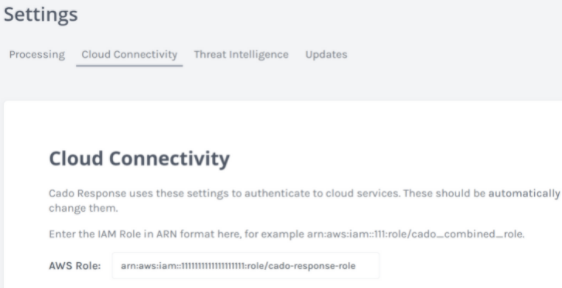
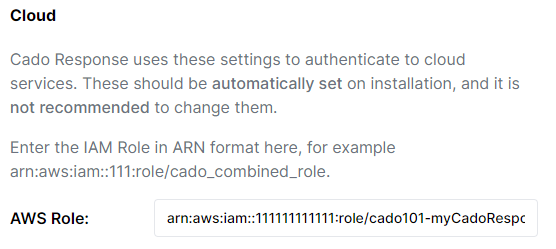
update guide for char lim

diff --git a/docs/cado-response/guides/cross-account-creation.md b/docs/cado-response/guides/cross-account-creation.md
@@ -20,9 +20,9 @@ export const Highlight = ({children, color}) => (
 EC2 instances in other accounts can be made accessible to Cado Response via AWS roles.  For example, if you have 100 accounts, you can grant Cado Response access to all 100 accounts which will allow the platform to acquire, process and analyze evidence across multiple accounts.
 
 ### High-Level Summary
-The below examples will outline how to grant permission for Cado Response to access a second account, but this same process can be used to add as many as needed.
+The below examples will outline how to grant permission for Cado Response to access a single secondary account, however this same process can be used for as many additional accounts as needed.
 
-To start, create:
+In this guide we will create:
 - An **IAM role** (`CadoResponseSecondRole`) in your second account, where you will acquire evidence from, with:
     - **Read/Write** access to EC2
     - A **trust relationship** to the primary account. 
@@ -99,6 +99,10 @@ In your **primary** account (111111111111 in this example)
 - The JSON  should look like the below, substituting in the details of your second account and the role you just created in the other account. The `Resource` list may be appended with as many cross account roles as you require.
 
 :::info
+IAM Policies are limited to 6,144 characters, so if the number of secondary accounts will exceed this character limit you can create additional policies in your primary account as we did above. The first policy in the primary account should still be named `CadoResponseCrossAccountPolicy`, and subsequent policies should be named `CadoResponseCrossAccountPolicy_1`, `CadoResponseCrossAccountPolicy_2`, etc.
+:::
+
+:::info
 Wildcards here will not be valid to Cado Response, roles must be listed in full.
 :::
 
@@ -123,19 +127,37 @@ Wildcards here will not be valid to Cado Response, roles must be listed in full.
 
 ### Attach Policy in the Primary Account
 - Still in the **primary** account, under **IAM** > **Roles** find the role for your Cado Response instance.
-- If you are unsure, this is the role specified in the Cado UI in **Settings > Cloud Connectivity > AWS Role**
+- If you are unsure, this is the role specified in the Cado UI in **Settings > Cloud > AWS Role**
 
-    ![AWS Role](/img/aws-role.png)
+    > ![AWS Role](/img/aws-role.png)
 
 - Click **Attach Policy**
     
-    ![Attach Policy](/img/attach-policy.png)
+    > ![Attach Policy](/img/attach-policy.png)
 
 - Then attach the `CadoResponseCrossAccountPolicy` you just created.
 
-    ![Attach Role](/img/attach-permissions.png)
+    > ![Attach Role](/img/attach-permissions.png)
 
 The roles listed in `CadoResponseCrossAccountPolicy` will now be available in the Cado Response UI and you can import instances from them as normal.
+
+:::info
+If you created multiple cross account policies in your primary account (to circumvent IAM policy character limits) and your platform was deployed before **version 1.5.1** you will need to adjust the IAM Role for the Cado Response platform. 
+
+Ensure that the `myCadoResponseRole` inline policy attached to the platform's IAM Role contains:
+
+```json
+{
+    "Action": [
+            "iam:GetPolicy",
+            "iam:GetPolicyVersion"
+    ],
+    "Resource": "arn:aws:iam::*:policy/CadoResponseCrossAccountPolicy*",
+    "Effect": "Allow"
+}
+```
+*(the only difference is the trailing "\*"")*
+:::
 
 
 ## Automated Cross Account Deployment Using CloudFormation StackSets and AWS Organisations or Terraform
